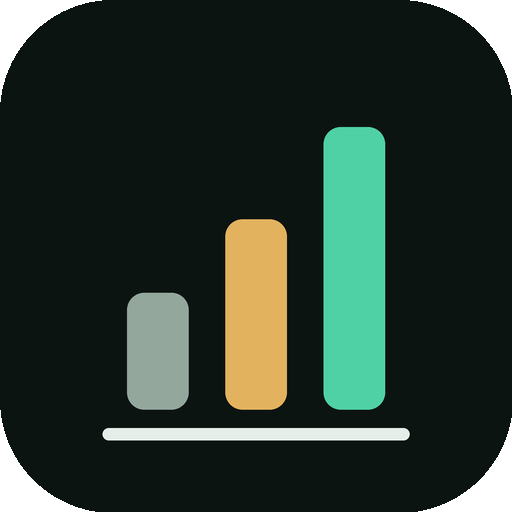
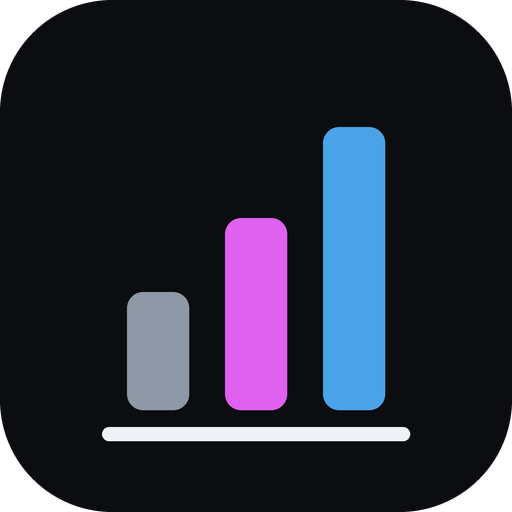
v8: paleta azul, cinzento escuro e fúcsia; corrige períodos do gráfico da Pie
- Cores ao estilo da Trading 212 (azul, cinzento escuro, fúcsia); verde/vermelho só para ganhos e perdas; botões em pílula
- Ícones da app, theme-color e manifest na nova paleta
- Evolução: cada período (1D, 1S, 1M, 3M, 6M, 1A, Máx) tem o seu eixo; zona sem registos fica vazia; início estimado entre registos
- Números dos eixos maiores em todos os gráficos

Claude-Session: https://claude.ai/code/session_019szdXjgHKQkCGxfTmkX2ZM

Changed region(s): [[0.1875, 0.25, 0.8125, 0.875], [0.25, 0.5625, 0.2812, 0.5938]]

diff --git a/app.js b/app.js
@@ -151,7 +151,7 @@
 
   /* ---------- gráficos ---------- */
   function lineChart(o) {
-    const W = 640, H = 280, L = 62, R = 14, T = 12, B = 26;
+    const W = 640, H = 280, L = 86, R = 16, T = 14, B = 30;
     const ys = o.series.flatMap((s) => s.pts.map((p) => p[1]));
     let lo = o.ymin === null ? Math.min(...ys) : o.ymin, hi = Math.max(...ys);
     if (o.ymin === null) { const pad = (hi - lo) * 0.25 || Math.max(1, Math.abs(hi) * 0.02); lo = o.neg ? lo - pad : Math.max(0, lo - pad); hi += pad; } else hi = niceMax(hi);
@@ -160,7 +160,7 @@
     if (o.out) { o.out.lo = lo; o.out.hi = hi; o.out.g = { W, H, L, R, T, B }; }
     let g = '';
     if (o.neg && lo < 0 && hi > 0) g += '<line x1="' + L + '" x2="' + (W - R) + '" y1="' + Y(0) + '" y2="' + Y(0) + '" stroke="var(--muted)" stroke-width="1" stroke-dasharray="3 3"/>';
-    for (let i = 0; i <= 4; i++) { const v = lo + (hi - lo) * i / 4, y = Y(v); g += '<line class="gl" x1="' + L + '" x2="' + (W - R) + '" y1="' + y + '" y2="' + y + '"/><text class="ax" x="' + (L - 8) + '" y="' + (y + 3.5) + '" text-anchor="end">' + esc(o.yfmt(v)) + '</text>'; }
+    for (let i = 0; i <= 4; i++) { const v = lo + (hi - lo) * i / 4, y = Y(v); g += '<line class="gl" x1="' + L + '" x2="' + (W - R) + '" y1="' + y + '" y2="' + y + '"/><text class="ax" x="' + (L - 8) + '" y="' + (y + 6) + '" text-anchor="end">' + esc(o.yfmt(v)) + '</text>'; }
     o.xticks.forEach((t, i) => { const a = i === 0 ? 'start' : i === o.xticks.length - 1 ? 'end' : 'middle'; g += '<text class="ax" x="' + X(t.x) + '" y="' + (H - 8) + '" text-anchor="' + a + '">' + esc(t.label) + '</text>'; });
     let ln = '';
     o.series.forEach((s) => {
@@ -176,13 +176,13 @@
     return '<svg class="chart" viewBox="0 0 ' + W + ' ' + H + '" role="img" aria-label="' + esc(o.label) + '">' + g + ln + '</svg>';
   }
   function barsChart(items, meta) {
-    const W = 640, H = 220, L = 52, R = 10, T = 16, B = 28;
+    const W = 640, H = 220, L = 66, R = 10, T = 18, B = 32;
     const n = items.length; if (!n) return '';
     const ymax = niceMax(Math.max(meta || 0, ...items.map((i) => i.v), 1));
     const Y = (v) => T + (1 - v / ymax) * (H - T - B);
     const slot = (W - L - R) / n, bw = Math.min(46, slot * 0.6);
     let g = '';
-    for (let i = 0; i <= 3; i++) { const v = ymax * i / 3, y = Y(v); g += '<line class="gl" x1="' + L + '" x2="' + (W - R) + '" y1="' + y + '" y2="' + y + '"/><text class="ax" x="' + (L - 8) + '" y="' + (y + 3.5) + '" text-anchor="end">' + esc(eur0(v)) + '</text>'; }
+    for (let i = 0; i <= 3; i++) { const v = ymax * i / 3, y = Y(v); g += '<line class="gl" x1="' + L + '" x2="' + (W - R) + '" y1="' + y + '" y2="' + y + '"/><text class="ax" x="' + (L - 8) + '" y="' + (y + 6) + '" text-anchor="end">' + esc(eur0(v)) + '</text>'; }
     let b = '';
     items.forEach((it, i) => {
       const x = L + i * slot + (slot - bw) / 2, y = Y(it.v);
@@ -256,46 +256,60 @@
 
   /* evolução ao estilo da Trading 212: Valor ou Resultado, com períodos e leitura ao tocar */
   const PERF = { mode: 'valor', range: 'max', ctx: null };
-  const RANGE_DAYS = { '1m': 30, '3m': 91, '6m': 182, '1a': 365 };
+  const RANGE_DAYS = { '1d': 1, '1s': 7, '1m': 30, '3m': 91, '6m': 182, '1a': 365 };
+  const dnum = (s) => Date.parse(s + 'T00:00:00Z') / 86400000;
+  /* Pontos do período. O eixo cobre sempre o período escolhido (como na Trading 212): se os registos só começam depois do início,
+     a zona anterior fica vazia; se há um registo anterior ao início, o início é estimado ligando os dois registos vizinhos. */
   function perfPoints(t) {
     const m = new Map();
     S.snaps.forEach((s) => m.set(s.data, { d: s.data, v: s.valor, dep: s.depositado }));
     if (S.holdings.length) m.set(today(), { d: today(), v: +t.tot.toFixed(2), dep: +t.custo.toFixed(2) }); // o ponto de hoje usa os valores atuais
-    let a = Array.from(m.values()).sort((x, y) => (x.d < y.d ? -1 : 1));
-    const days = RANGE_DAYS[PERF.range];
-    if (days && a.length > 2) {
-      const cut = iso(new Date(Date.now() - days * 86400000)), i = a.findIndex((p) => p.d >= cut);
-      a = a.slice(i < 0 ? a.length - 1 : Math.max(0, i - 1)); // mantém o ponto anterior para a linha ter origem
-    }
-    return a;
+    const all = Array.from(m.values()).sort((x, y) => (x.d < y.d ? -1 : 1));
+    if (!all.length) return { a: [], start: today(), end: today() };
+    const end = all[all.length - 1].d, days = RANGE_DAYS[PERF.range];
+    if (!days) return { a: all, start: all[0].d, end, before: null, est: false };
+    const dstart = new Date(Date.parse(end + 'T12:00:00Z') - days * 86400000).toISOString().slice(0, 10); // início = fim − N dias
+    const inside = all.filter((x) => x.d >= dstart), prev = all.filter((x) => x.d < dstart).pop();
+    const a = inside.slice(); let est = false, before = null;
+    if (prev && inside.length && inside[0].d !== dstart) {
+      const f = (dnum(dstart) - dnum(prev.d)) / (dnum(inside[0].d) - dnum(prev.d));
+      a.unshift({ d: dstart, v: +(prev.v + (inside[0].v - prev.v) * f).toFixed(2), dep: +(prev.dep + (inside[0].dep - prev.dep) * f).toFixed(2), est: true }); est = true;
+    } else if (!prev && inside.length && inside[0].d > dstart) before = inside[0].d; // os registos começam depois do início do período
+    return { a, start: dstart, end, before, est };
   }
   function rPerf(t) {
     $$('#perf-mode button').forEach((b) => b.setAttribute('aria-pressed', String(b.dataset.mode === PERF.mode)));
     $$('#perf-range button').forEach((b) => b.setAttribute('aria-pressed', String(b.dataset.range === PERF.range)));
-    const a = perfPoints(t), box = $('#perf-chart');
+    const P = perfPoints(t), a = P.a, box = $('#perf-chart');
     PERF.ctx = null;
     if (a.length < 2) {
-      box.innerHTML = '<p class="small muted">Ainda só há um ponto. Guarda o registo de hoje todos os meses (ou mais vezes) para veres a evolução.</p>';
+      box.innerHTML = '<p class="small muted">' + (a.length ? 'Só há um registo neste período. Guarda o registo de hoje para o gráfico ganhar forma.' : 'Ainda sem registos.') + '</p>';
       $('#perf-legend').innerHTML = ''; $('#perf-sub').textContent = '';
       $('#perf-val').textContent = a.length ? eur(a[0].v) : '—'; $('#perf-date').textContent = a.length ? fdate(a[0].d) : '';
       return;
     }
-    const res = PERF.mode === 'resultado', d0 = Date.parse(a[0].d + 'T00:00:00Z') / 86400000, day = (s) => Date.parse(s + 'T00:00:00Z') / 86400000 - d0;
-    const xmax = day(a[a.length - 1].d) || 1, xt = [];
-    for (let i = 0; i <= 3; i++) { const dd = new Date((d0 + xmax * i / 3) * 86400000); xt.push({ x: xmax * i / 3, label: String(dd.getUTCDate()).padStart(2, '0') + '/' + String(dd.getUTCMonth() + 1).padStart(2, '0') }); }
+    const res = PERF.mode === 'resultado', d0 = dnum(P.start), day = (s) => dnum(s) - d0;
+    const xmax = Math.max(1, day(P.end)), long = xmax > 100, xt = [];
+    for (let i = 0; i <= 3; i++) {
+      const dd = new Date((d0 + Math.round(xmax * i / 3)) * 86400000), dm = String(dd.getUTCDate()).padStart(2, '0') + '/' + String(dd.getUTCMonth() + 1).padStart(2, '0');
+      const label = long ? String(dd.getUTCMonth() + 1).padStart(2, '0') + '/' + String(dd.getUTCFullYear()).slice(2) : dm;
+      if (!xt.length || xt[xt.length - 1].label !== label) xt.push({ x: Math.round(xmax * i / 3), label });
+    }
     const y = (p) => (res ? p.v - p.dep : p.v), lastP = a[a.length - 1];
     const col = res && y(lastP) < 0 ? 'var(--neg)' : 'var(--accent)', out = {};
     const series = [];
     if (!res) series.push({ pts: a.map((p) => [day(p.d), p.dep]), c: 'var(--c2)', dash: true, w: 1.6 });
     series.push({ pts: a.map((p) => [day(p.d), y(p)]), c: col, w: 2.8, main: true, area: true });
-    box.innerHTML = lineChart({ series, xmax, xticks: xt, ymin: null, neg: res, yfmt: eur, label: res ? 'Resultado da pie ao longo do tempo' : 'Valor da pie e total depositado ao longo do tempo', out, cursor: col });
+    box.innerHTML = lineChart({ series, xmax, xticks: xt, ymin: null, neg: res, yfmt: eur, label: (res ? 'Resultado da pie' : 'Valor da pie e total depositado') + ', período ' + fdate(P.start) + ' a ' + fdate(P.end), out, cursor: col });
     const g = out.g;
     PERF.ctx = { a, y, res, col, last: lastP, pts: a.map((p) => ({ p, px: g.L + (day(p.d) / xmax) * (g.W - g.L - g.R), py: g.T + (1 - (y(p) - out.lo) / ((out.hi - out.lo) || 1)) * (g.H - g.T - g.B) })), W: g.W };
     $('#perf-legend').innerHTML = res ? '<span style="--c:' + col + '">Resultado (valor − depositado)</span>' : '<span style="--c:var(--accent)">Valor da pie</span><span class="dash" style="--c:var(--c2)">Depositado</span>';
     showPerf(lastP, false);
     // resultado do período, sem contar os depósitos
     const f = a[0], g2 = lastP.v - f.v - (lastP.dep - f.dep), r2 = f.v > 0 ? g2 / f.v * 100 : 0;
-    $('#perf-sub').textContent = 'No período (' + fdate(f.d) + ' a ' + fdate(lastP.d) + '): ' + sg(g2) + ' (' + sp(r2) + '), sem contar os depósitos. Passa o dedo pelo gráfico para ver cada ponto.';
+    $('#perf-sub').textContent = 'No período (' + fdate(f.d) + ' a ' + fdate(lastP.d) + '): ' + sg(g2) + ' (' + sp(r2) + '), sem contar os depósitos.' +
+      (P.est ? ' O início do período é estimado a partir dos registos vizinhos.' : '') +
+      (P.before ? ' Os registos só começam a ' + fdate(P.before) + '.' : '') + ' Passa o dedo pelo gráfico para ver cada ponto.';
   }
   function showPerf(p, active) {
     const c = PERF.ctx; if (!c) return;

diff --git a/styles.css b/styles.css
@@ -7,16 +7,16 @@
 
 /* Layout: caderneta de bolso. Uma coluna estreita, navegação fixa em baixo, números em mono sobre fundo verde-tinta. */
 :root{
-  --bg:#f2f5f3; --surface:#ffffff; --surface2:#e8eeea; --fg:#12201a; --muted:#5b6d64; --line:#d3ddd7;
-  --accent:#0a7d5c; --accent-ink:#ffffff; --c2:#b4701a; --c3:#2b6cb0; --pos:#0a7d5c; --neg:#c2463d;
+  --bg:#eef1f6; --surface:#ffffff; --surface2:#e5e9f0; --fg:#12161c; --muted:#5b6675; --line:#d4dae3;
+  --accent:#1f7fd1; --accent-ink:#ffffff; --c2:#c026d3; --c3:#0e8aa8; --warn:#b4701a; --pos:#188a45; --neg:#cf3f38;
   --f-display:"Bricolage Grotesque","Trebuchet MS",sans-serif;
   --f-body:"IBM Plex Sans",system-ui,-apple-system,"Segoe UI",sans-serif;
   --f-num:"IBM Plex Mono",ui-monospace,"SFMono-Regular",Menlo,monospace;
   color-scheme:light;
 }
 @media (prefers-color-scheme: dark){:root{
-  --bg:#0c1411; --surface:#131e19; --surface2:#1b2a23; --fg:#e5eee9; --muted:#93a79d; --line:#25352d;
-  --accent:#4fd1a5; --accent-ink:#06251b; --c2:#e3b25f; --c3:#6fa8e8; --pos:#4fd1a5; --neg:#f08a80; color-scheme:dark}}
+  --bg:#0b0d10; --surface:#15181d; --surface2:#1f2329; --fg:#eef1f5; --muted:#8e98a6; --line:#2a3038;
+  --accent:#4aa3e8; --accent-ink:#04121e; --c2:#e060f0; --c3:#66d0e8; --warn:#f0b64e; --pos:#5ccf72; --neg:#f2706a; color-scheme:dark}}
 
 *{box-sizing:border-box}
 html,body{margin:0}
@@ -40,7 +40,7 @@ p{margin:0 0 8px}
 .top{display:flex;justify-content:space-between;align-items:flex-end;gap:12px;margin-bottom:12px}
 .sync{display:flex;align-items:center;gap:6px;font-size:12px;color:var(--muted);border:1px solid var(--line);border-radius:999px;padding:4px 10px;white-space:nowrap}
 .sync i{width:8px;height:8px;border-radius:50%;background:var(--muted);display:block}
-.sync.ok i{background:var(--pos)} .sync.off i{background:var(--c2)} .sync.err i{background:var(--neg)}
+.sync.ok i{background:var(--pos)} .sync.off i{background:var(--warn)} .sync.err i{background:var(--neg)}
 .banner{background:var(--surface2);border:1px solid var(--line);border-radius:10px;padding:8px 12px;font-size:13px;margin-bottom:12px}
 .views section{display:flex;flex-direction:column;gap:14px}
 
@@ -67,9 +67,9 @@ input,select,textarea{background:var(--bg);border:1px solid var(--line);border-r
 input,textarea{font-family:var(--f-num)} textarea{font-family:var(--f-body);font-size:15px;min-height:96px;resize:vertical}
 select{font-family:var(--f-body)}
 input:focus-visible,select:focus-visible,textarea:focus-visible,button:focus-visible,summary:focus-visible{outline:2px solid var(--accent);outline-offset:2px}
-.btn{font-weight:600;font-size:14px;background:var(--accent);color:var(--accent-ink);border:0;border-radius:10px;padding:11px 16px;cursor:pointer;min-height:44px}
-.btn.ghost{background:transparent;color:var(--fg);border:1px solid var(--line)}
-.btn.sm{padding:7px 12px;font-size:13px;min-height:36px}
+.btn{font-weight:600;font-size:14px;background:var(--accent);color:var(--accent-ink);border:0;border-radius:999px;padding:11px 20px;cursor:pointer;min-height:44px}
+.btn.ghost{background:var(--surface2);color:var(--fg);border:0}
+.btn.sm{padding:7px 16px;font-size:13px;min-height:36px}
 .btn[disabled]{opacity:.55;cursor:default}
 .link{background:none;border:0;color:var(--accent);font-size:13px;text-decoration:underline;cursor:pointer;padding:6px 0;text-align:left}
 .msg{font-size:13px;min-height:1.2em;color:var(--muted);margin-top:8px}
@@ -98,12 +98,12 @@ table.t th:first-child,table.t td:first-child{text-align:left;padding-left:0}
 .hold .hd span{overflow-wrap:anywhere}
 
 /* bar and alerts */
-.alert{margin-top:10px;font-size:13px;border:1px solid var(--c2);color:var(--fg);border-radius:10px;padding:8px 12px;background:var(--surface2)}
+.alert{margin-top:10px;font-size:13px;border:1px solid var(--warn);color:var(--fg);border-radius:10px;padding:8px 12px;background:var(--surface2)}
 .legend{display:flex;gap:6px 14px;flex-wrap:wrap;font-size:12px;color:var(--muted);margin-top:8px}
 .legend span::before{content:"";display:inline-block;width:14px;height:0;border-top:3px solid var(--c,var(--accent));margin-right:6px;vertical-align:middle}
 .legend span.dash::before{border-top-style:dashed}
 svg.chart{width:100%;height:auto;display:block}
-svg .ax{fill:var(--muted);font:13px var(--f-num)}
+svg .ax{fill:var(--muted);font:17px var(--f-num)}
 svg .gl{stroke:var(--line);stroke-width:1}
 
 /* goals, notes, checks */
@@ -115,7 +115,7 @@ svg .gl{stroke:var(--line);stroke-width:1}
 .note:first-child{border-top:0}
 .note .body{flex:1;min-width:0;overflow-wrap:anywhere;white-space:pre-wrap}
 .pill{font-size:11px;font-weight:600;border-radius:999px;padding:2px 9px;white-space:nowrap;border:1px solid currentColor}
-.pill.pendente{color:var(--c2)} .pill.decisao{color:var(--accent)} .pill.rejeitado{color:var(--neg)} .pill.nota,.pill.revisao{color:var(--c3)}
+.pill.pendente{color:var(--warn)} .pill.decisao{color:var(--accent)} .pill.rejeitado{color:var(--neg)} .pill.nota,.pill.revisao{color:var(--c3)}
 .checks{display:flex;flex-direction:column;gap:6px}
 .check{display:flex;flex-direction:row;align-items:center;gap:10px;font-size:14px;color:var(--fg);padding:6px 0}
 .check input{width:22px;height:22px;flex:none;accent-color:var(--accent)}
@@ -149,7 +149,7 @@ svg .gl{stroke:var(--line);stroke-width:1}
 .rd-t h3{margin:14px 0 4px}
 .srcline{font-size:12px;color:var(--muted);margin-top:4px;overflow-wrap:anywhere}
 .srcline a{color:var(--accent)}
-.warn{color:var(--c2)}
+.warn{color:var(--warn)}
 
 /* versão */
 .ver{font-size:11px;color:var(--muted);font-family:var(--f-num)}
@@ -173,7 +173,7 @@ svg .dn-s{fill:var(--muted);font:11px var(--f-body)}
 .seg{display:inline-flex;gap:2px;padding:2px;border:1px solid var(--line);border-radius:999px;background:var(--bg)}
 .seg.wide{display:flex;justify-content:space-between;margin-top:12px}
 .seg.wide button{flex:1}
-.seg button{background:none;border:0;border-radius:999px;padding:6px 12px;font-size:12.5px;font-weight:600;color:var(--muted);cursor:pointer;min-height:36px}
+.seg button{background:none;border:0;border-radius:999px;padding:6px 10px;font-size:12.5px;font-weight:600;color:var(--muted);cursor:pointer;min-height:36px}
 .seg button[aria-pressed="true"]{background:var(--accent);color:var(--accent-ink)}
 .perf-read{margin:6px 0 2px;min-height:48px}
 .big-s{font-size:26px;font-weight:500;line-height:1.15;letter-spacing:-.01em}

diff --git a/index.html b/index.html
@@ -5,8 +5,8 @@
 <meta name="viewport" content="width=device-width,initial-scale=1,viewport-fit=cover">
 <title>Caderneta</title>
 <meta http-equiv="Content-Security-Policy" content="default-src 'self'; script-src 'self'; style-src 'self' 'unsafe-inline'; img-src 'self' data:; font-src 'self'; connect-src 'self' https://epywsjqmfzklpfvhhycn.supabase.co wss://epywsjqmfzklpfvhhycn.supabase.co; base-uri 'none'; form-action 'none'; object-src 'none'">
-<meta name="theme-color" content="#f2f5f3" media="(prefers-color-scheme: light)">
-<meta name="theme-color" content="#0c1411" media="(prefers-color-scheme: dark)">
+<meta name="theme-color" content="#eef1f6" media="(prefers-color-scheme: light)">
+<meta name="theme-color" content="#0b0d10" media="(prefers-color-scheme: dark)">
 <meta name="color-scheme" content="light dark">
 <meta name="apple-mobile-web-app-capable" content="yes">
 <meta name="mobile-web-app-capable" content="yes">
@@ -91,7 +91,7 @@
       <div class="perf-read"><div class="big-s num" id="perf-val">—</div><div class="small muted" id="perf-date"></div></div>
       <div id="perf-chart" class="perf-chart"></div>
       <div class="legend" id="perf-legend"></div>
-      <div class="seg wide" id="perf-range" role="group" aria-label="Período"><button data-range="1m" aria-pressed="false">1M</button><button data-range="3m" aria-pressed="false">3M</button><button data-range="6m" aria-pressed="false">6M</button><button data-range="1a" aria-pressed="false">1A</button><button data-range="max" aria-pressed="true">Máx</button></div>
+      <div class="seg wide" id="perf-range" role="group" aria-label="Período"><button data-range="1d" aria-pressed="false">1D</button><button data-range="1s" aria-pressed="false">1S</button><button data-range="1m" aria-pressed="false">1M</button><button data-range="3m" aria-pressed="false">3M</button><button data-range="6m" aria-pressed="false">6M</button><button data-range="1a" aria-pressed="false">1A</button><button data-range="max" aria-pressed="true">Máx</button></div>
       <p class="small muted" id="perf-sub" style="margin-top:10px"></p>
     </div>
 

diff --git a/version.js b/version.js
@@ -1,3 +1,3 @@
 // Fonte única da versão da app. Mudar SEMPRE que qualquer ficheiro da app mudar (ver CLAUDE.md).
 // O service worker usa este número no nome da cache; a app mostra-o no cabeçalho e em Revisões > Conta.
-(self).CADERNETA_VERSION = { v: 7, data: '2026-10-23', nota: 'Separador Pie: donut, evolução e participações ao estilo da Trading 212' };
+(self).CADERNETA_VERSION = { v: 8, data: '2026-10-23', nota: 'Paleta azul, cinzento escuro e fúcsia; gráfico da Pie com períodos 1D a Máx corrigidos' };
